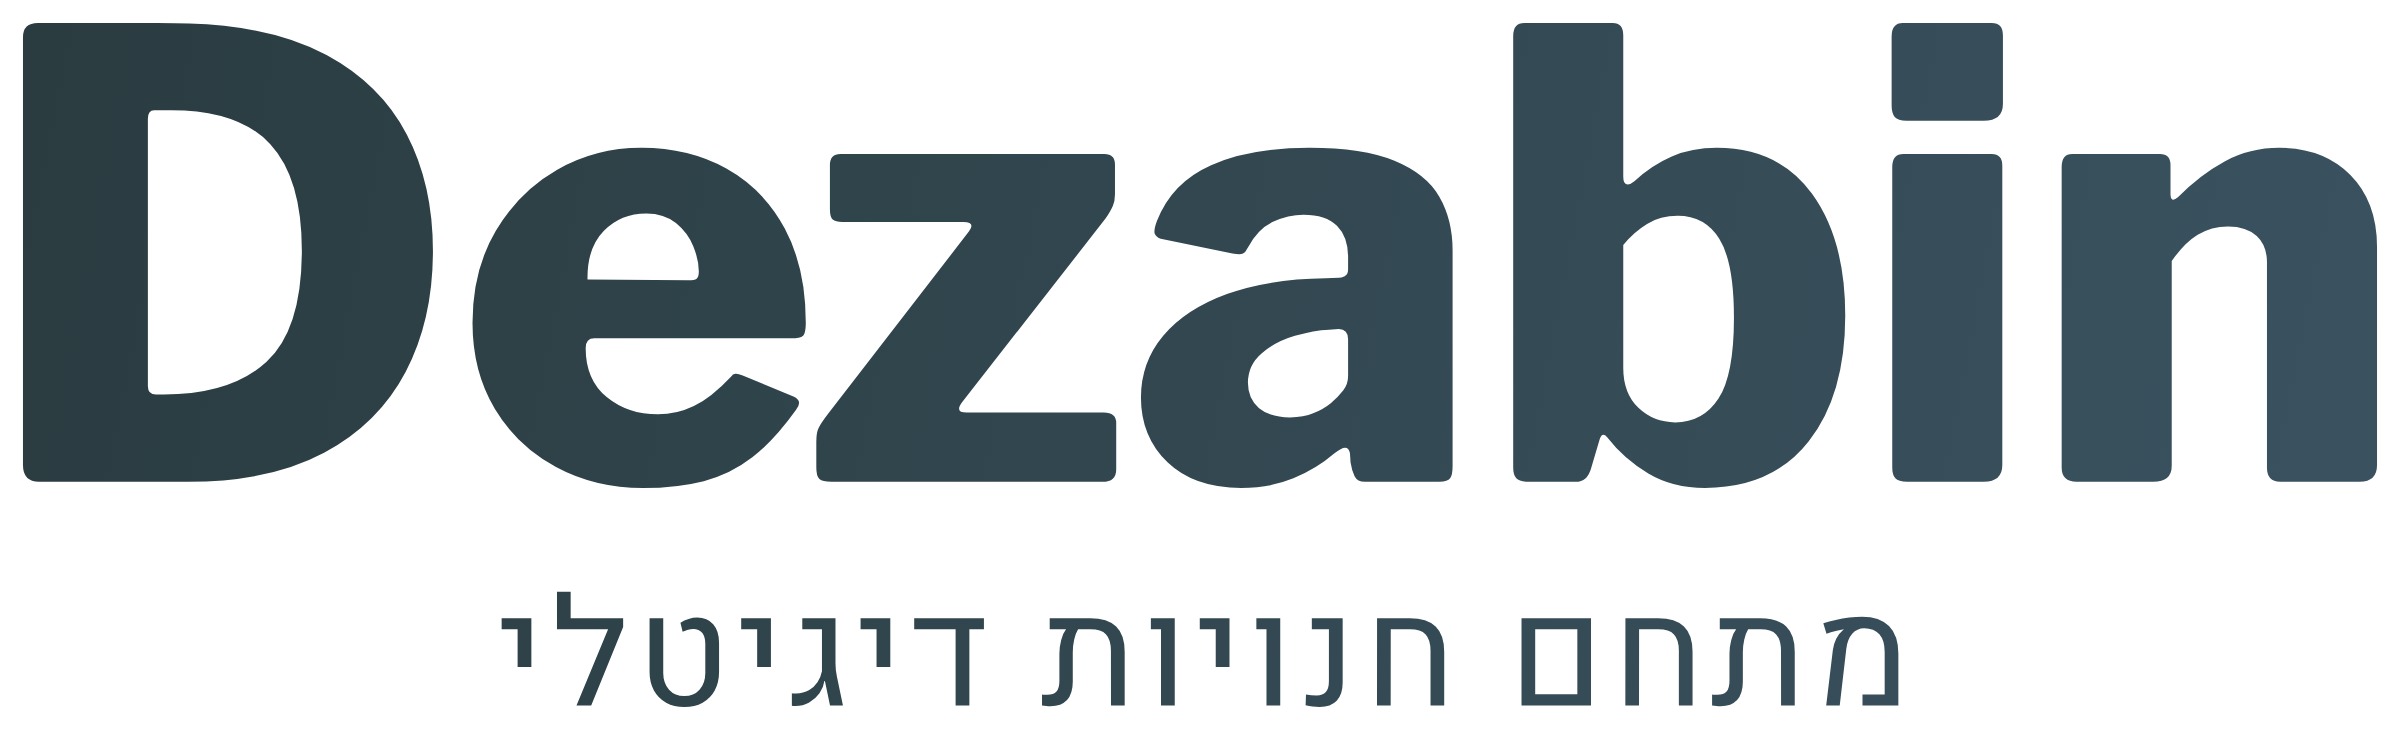
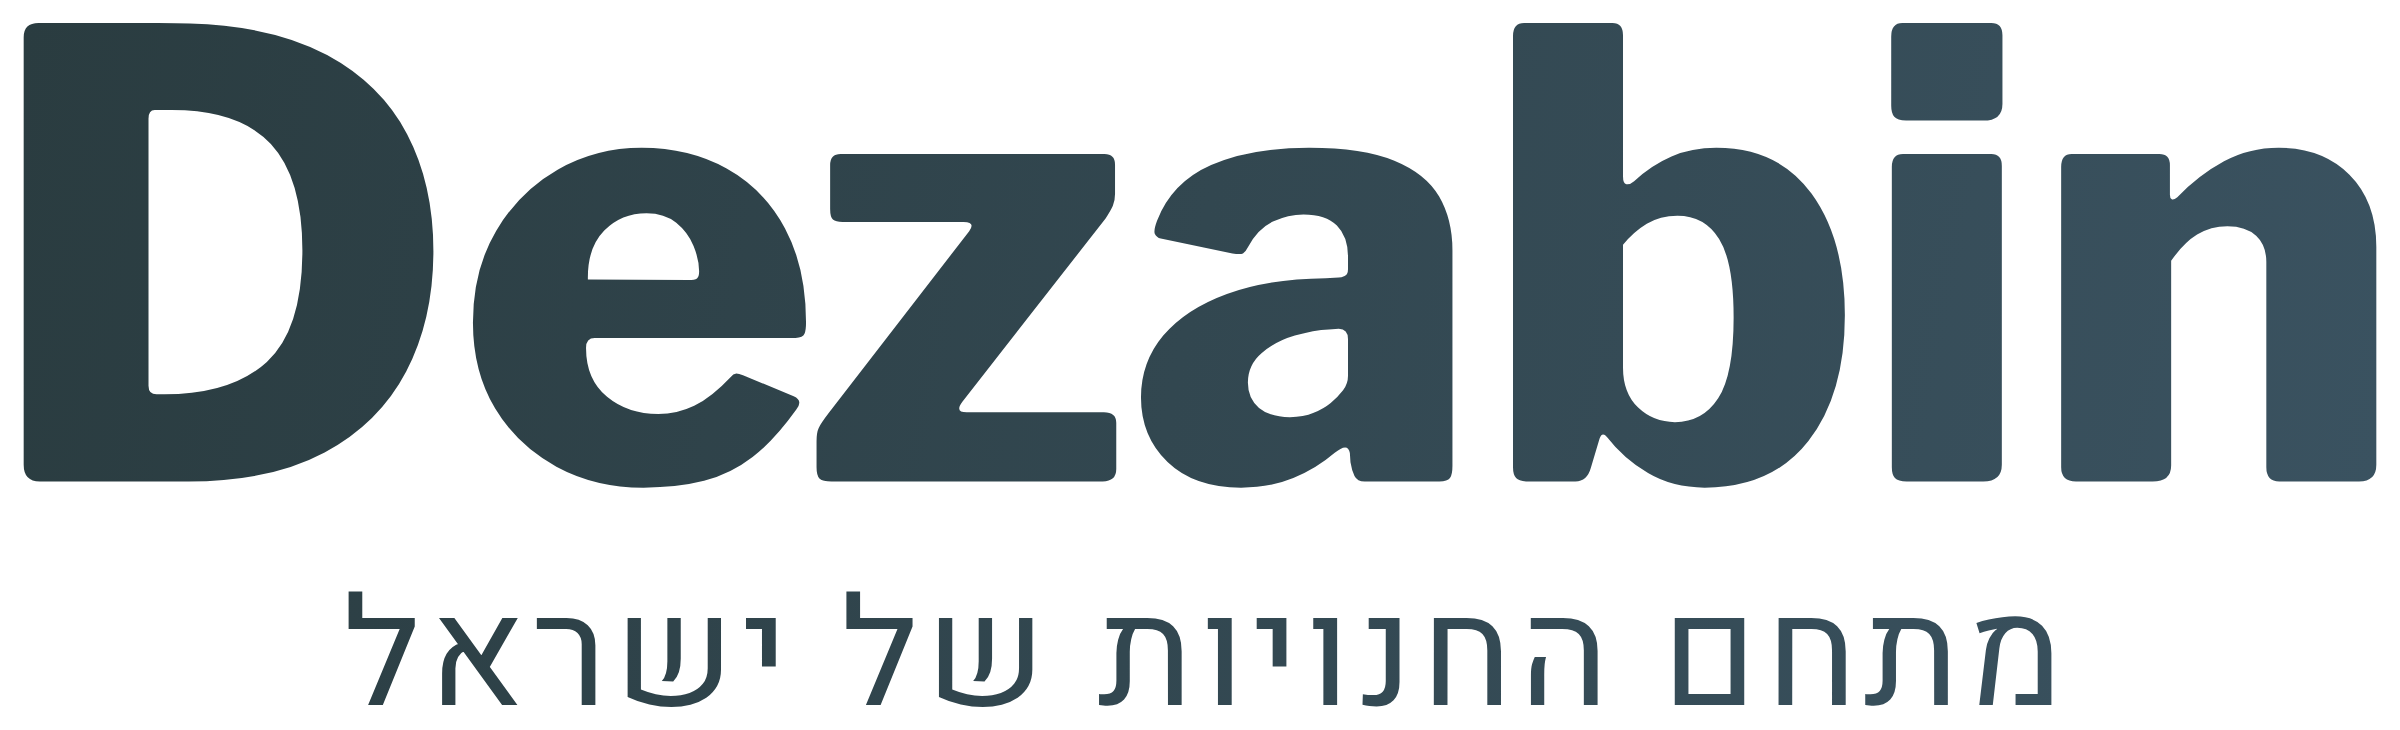
The tagline changes, and the six files it is drawn into change with it
The owner's first edits made with the inline editor: the tagline becomes "מתחם
החנויות של ישראל" (in `brand.tagline` and in the homepage h1's accessible name,
which holds the same words), and two dashboard subtitles drop the half that
listed what the screen already shows.

The tagline is not read at runtime everywhere it appears — it is drawn as
OUTLINES into both lockup SVGs, their rasters, the email logo and the OG card. So
the dictionary was right, the suite was green, and six files under public/ still
said the old words. Redrawn here with `brand:wordmark` + `brand:assets`.

brand-lockup.test.ts stopped pinning the Hebrew as a literal and asserts its
SHAPE instead — a Hebrew phrase against the single English word. A test that goes
red on every re-wording teaches the owner to stop re-wording, which is the
opposite of what the editor is for; what has to survive is the decision he
actually made, that the two languages differ in kind.

Changed region(s): [[0.125, 0.8137, 0.875, 0.9644]]

diff --git a/src/i18n/translations.ts b/src/i18n/translations.ts
@@ -10,7 +10,7 @@ export const translations = {
      * says the one word that does the same job in a breath.
      */
     brand: {
-      tagline: 'מתחם חנויות דיגיטלי',
+      tagline: 'מתחם החנויות של ישראל',
     },
     nav: {
       home: 'בית',
@@ -131,7 +131,7 @@ export const translations = {
       // `/terms` keeps "marketplace" and is not an exception: its Hebrew is
       // "זירת מסחר", a different word doing a legal job, and "marketplace" is
       // its correct twin.
-      startSelling: 'מתחם חנויות דיגיטלי',
+      startSelling: 'מתחם החנויות של ישראל',
       // **It no longer lists what the chips under it list** (owner, 2026-08-24: *"גם בעמוד הראשי
       // חסר לי שם ב-CTA למטה — להגיד שהסליקה גם מובנית… ללא תוספים חיצוניים"*). Adding a fourth
       // item would have made this sentence the list a second time, one line above the list; so the
@@ -1860,7 +1860,7 @@ export const translations = {
       bulkDiscountError: 'לא הצלחנו להחיל את המבצע',
       // The subtitle under the Overview head. Replaced the floating `TabHint` line: the one fact
       // the screen does not state is that every stat below is a button.
-      ovSubtitle: 'מבט מהיר על מה שקורה בחנות עכשיו. כל כרטיס לחיץ ופותח את הלשונית שמטפלת בו.',
+      ovSubtitle: 'מבט מהיר על מה שקורה בחנות עכשיו.',
       onbTitle: 'שלבים ראשונים',
       onbSubtitle: 'מה שיביא את החנות למצב פעיל ומוכר. ניתן לבצע בכל סדר, והרשימה מתעדכנת לבד.',
       onbStepProduct: 'להוסיף מוצר ראשון',
@@ -2145,7 +2145,7 @@ export const translations = {
       ordersTitle: 'הזמנות',
       // Owner, 2026-08-24 — the old line claimed the seller messages the buyer here, and he does
       // not: that is a thread in the Messages tab. What is here is the status and the tracking.
-      ordersSubtitle: 'ניהול ומעקב אחר ההזמנות — סימון "נשלח" והזנת מספר מעקב.',
+      ordersSubtitle: 'ניהול ומעקב אחר ההזמנות.',
       noOrders: 'עדיין לא נכנסו הזמנות.',
       // Shown when orders exist but none match the toolbar's search/filter — distinct from
       // noOrders above, which means the store has never had one.

diff --git a/tests/brand-lockup.test.ts b/tests/brand-lockup.test.ts
@@ -420,7 +420,16 @@ describe('the second line is small, centred, and tracked by language', () => {
     // in a breath (owner, 2026-08-21). Not a translation, and not a shared key —
     // `home.startSelling` is the homepage h1's accessible name and stays a
     // sentence.
-    expect(translations.he.brand.tagline).toBe('מתחם חנויות דיגיטלי');
+    //
+    // The Hebrew is asserted by SHAPE, not by its words. It was pinned as a
+    // literal until the inline copy editor made re-wording it a click
+    // (2026-09-08), and a test that goes red on every re-wording teaches the
+    // owner to stop re-wording — the opposite of what that editor is for. What
+    // has to survive a re-wording is the thing the owner decided: the two
+    // languages differ in KIND, a Hebrew phrase against a single English word.
+    const he = translations.he.brand.tagline;
+    expect(he).toMatch(/^[\u0590-\u05FF]/);
+    expect(he.split(' ').length).toBeGreaterThan(1);
     expect(translations.en.brand.tagline).toBe('MARKETPLACE');
     expect(read('src/components/BrandLogo.astro')).toContain('t.brand.tagline');
   });
